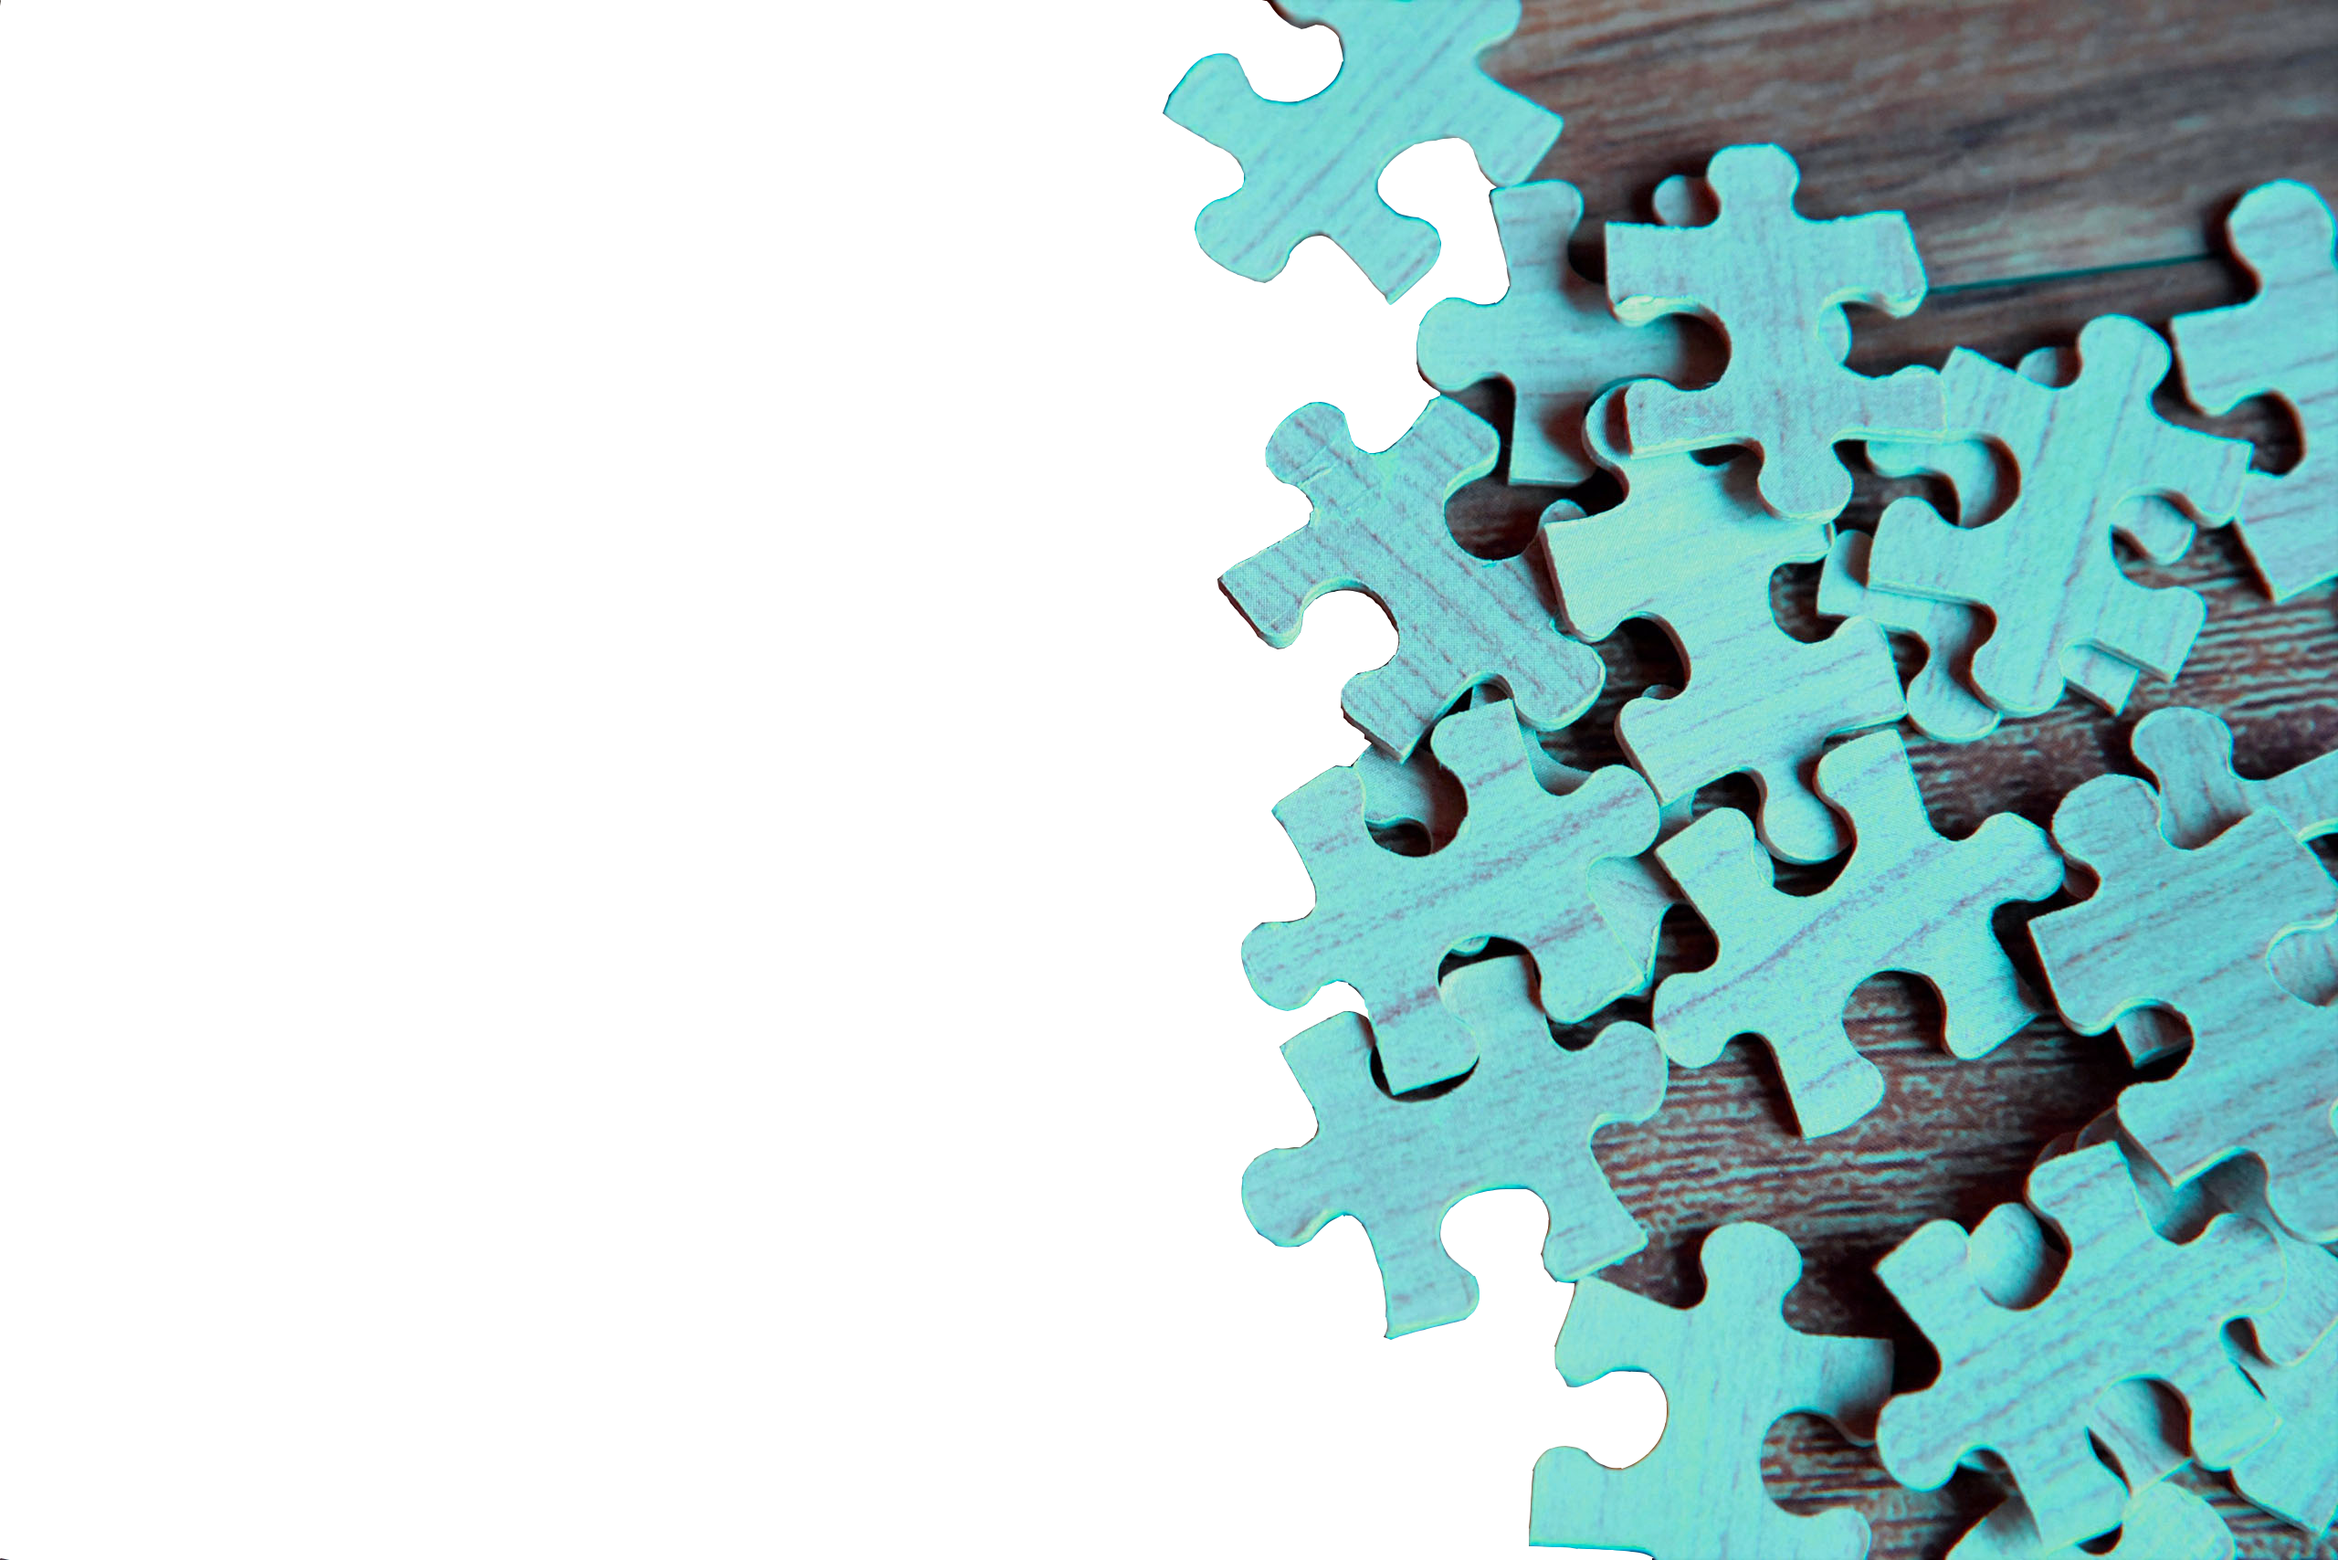
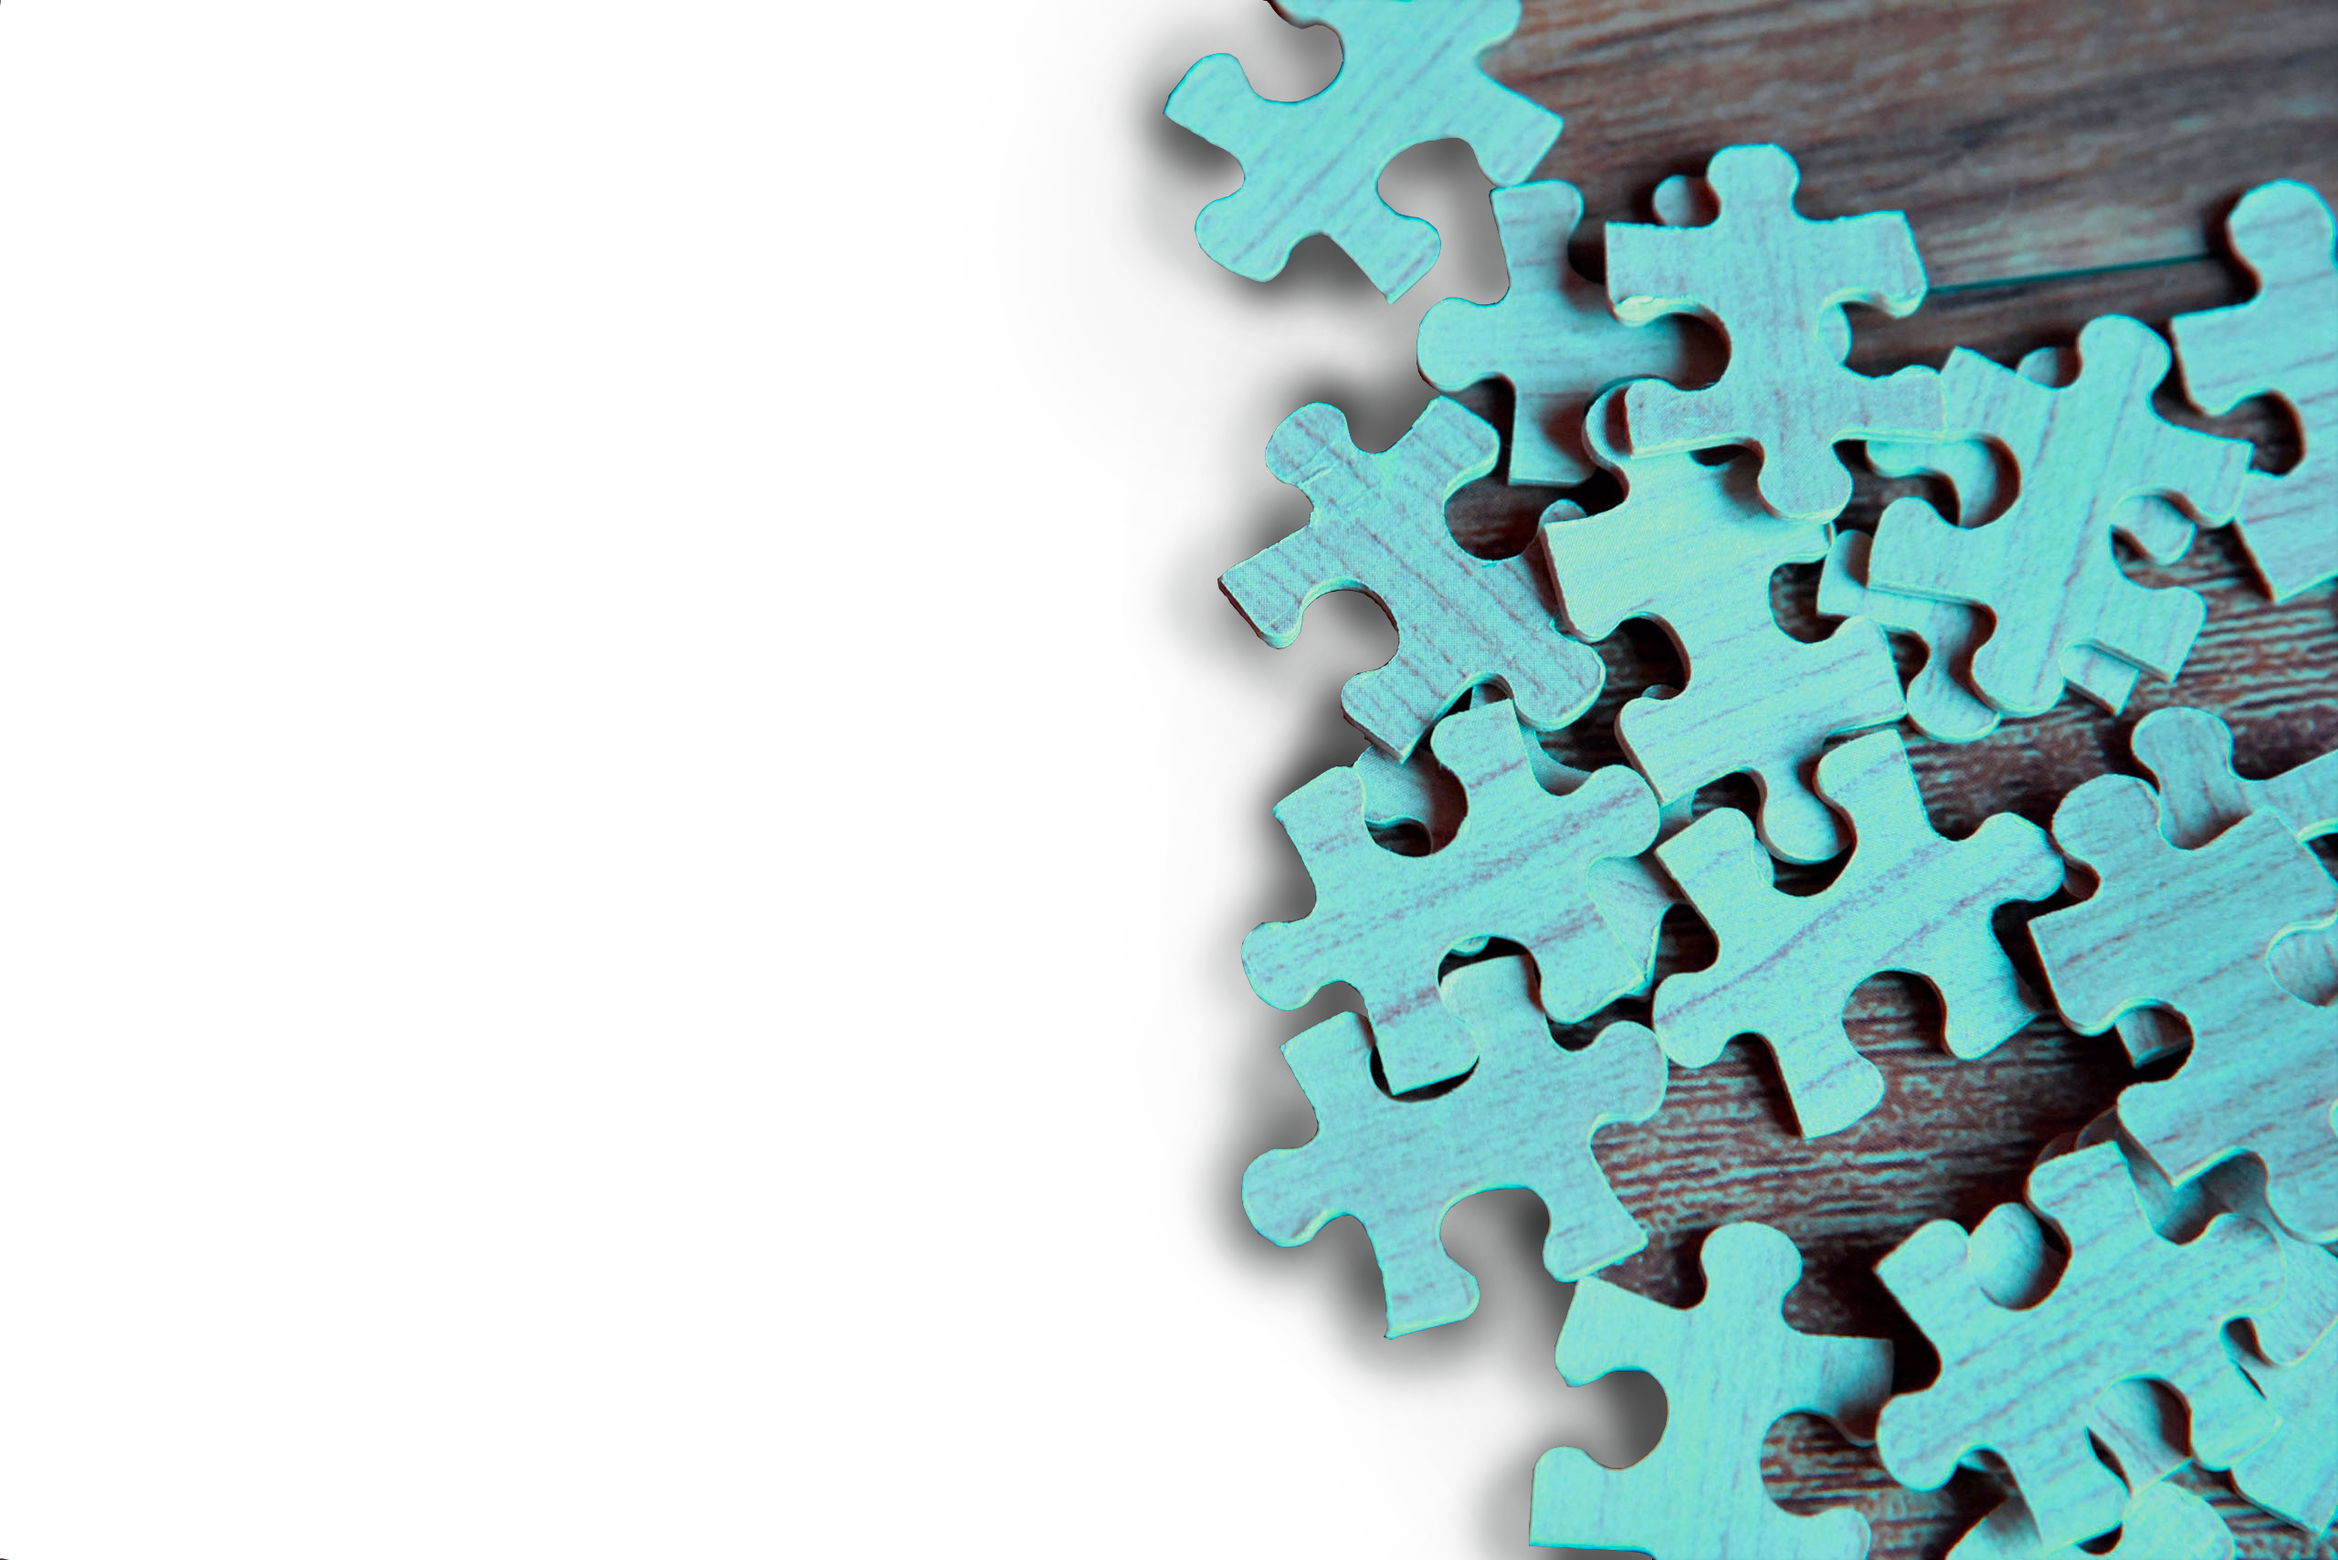
Fix: Shadow added to puzzle image in hero.

Changed region(s): [[0.4688, 0.0, 0.7188, 1.0]]

diff --git a/public/style.css b/public/style.css
@@ -1,21 +1,3 @@
 body {
   font-family: sans-serif;
 }
-
-a {
-  text-decoration: none;
-}
-
-label {
-  display: block;
-}
-
-nav a {
-  display: inline-block;
-  margin: 1em;
-}
-
-form div {
-  margin: 1em;
-  display: inline-block;
-}

diff --git a/client/components/Homepage.js b/client/components/Homepage.js
@@ -58,7 +58,7 @@ const Hero = styled.div`
 `
 const HeroButton = styled.button`
   font-family: 'Barlow Semi Condensed';
-  font-size: 1.5em;
+  font-size: 1em;
   background-color: #f4f155;
   color: #36008d;
   font-weight: 800;
